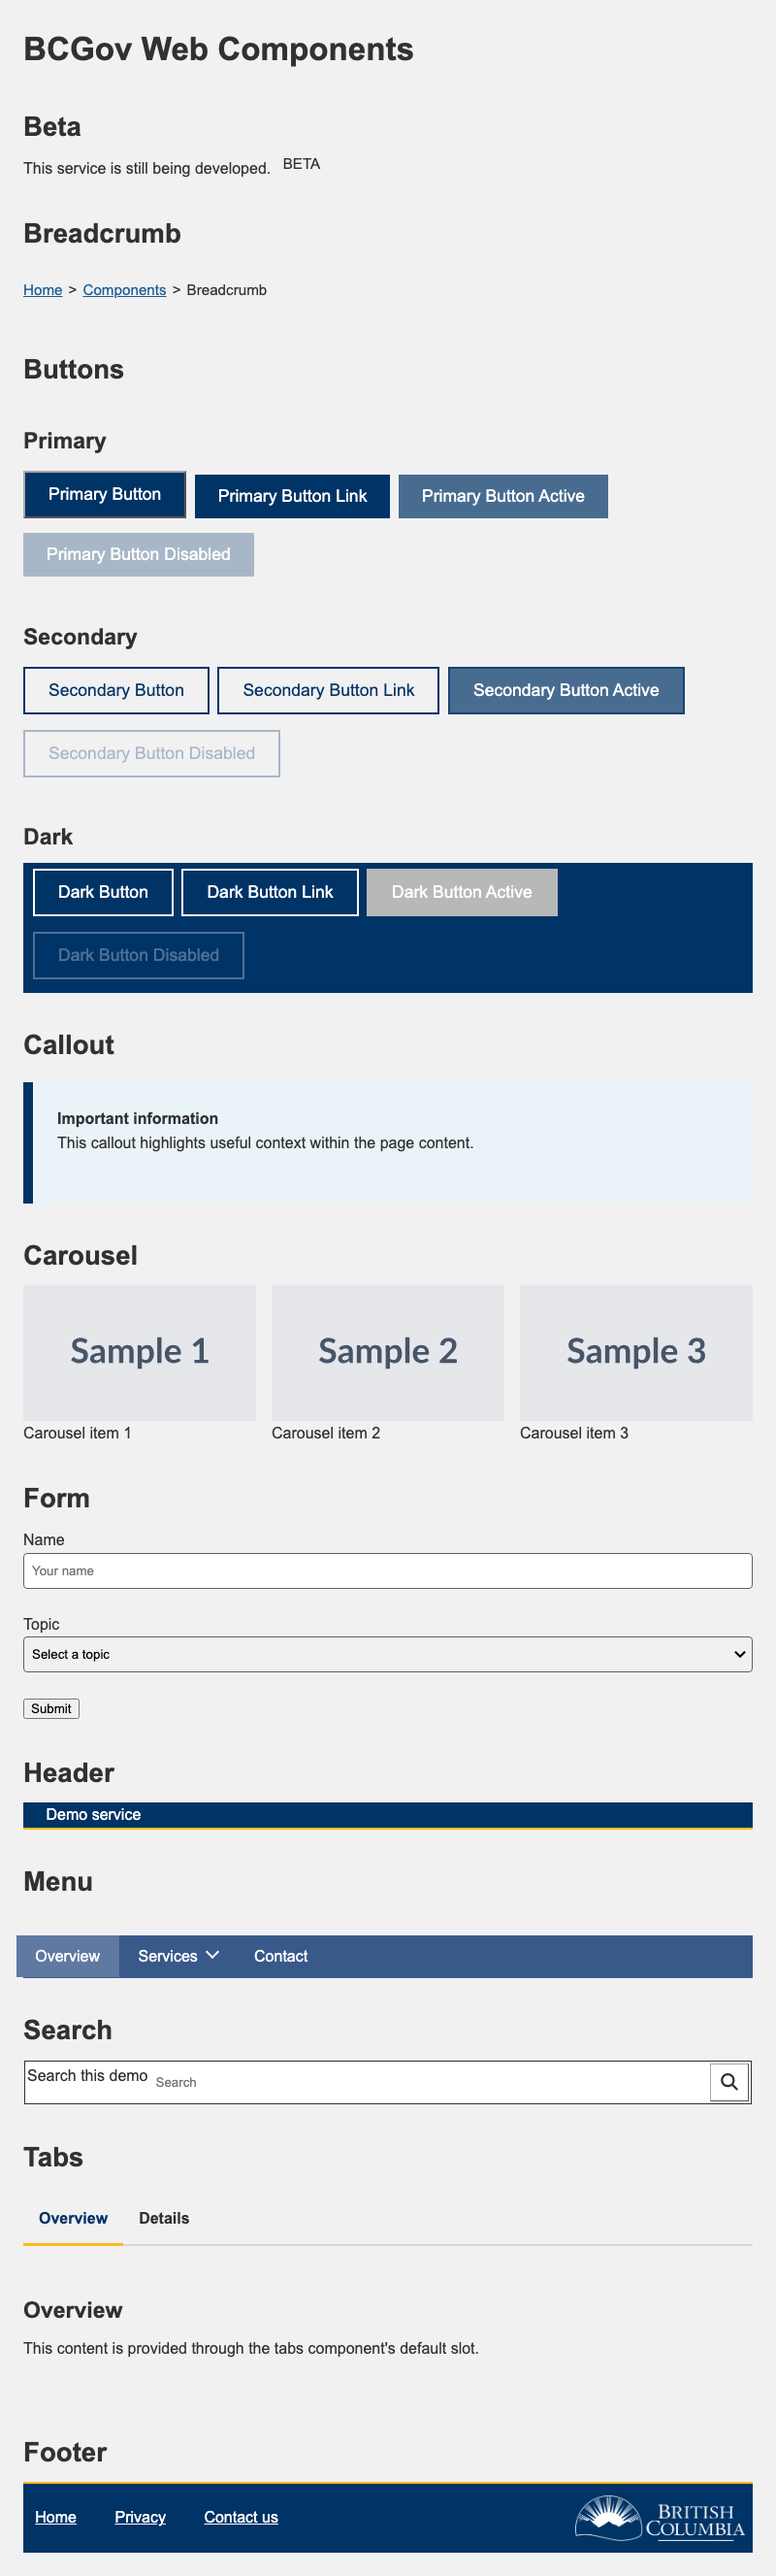
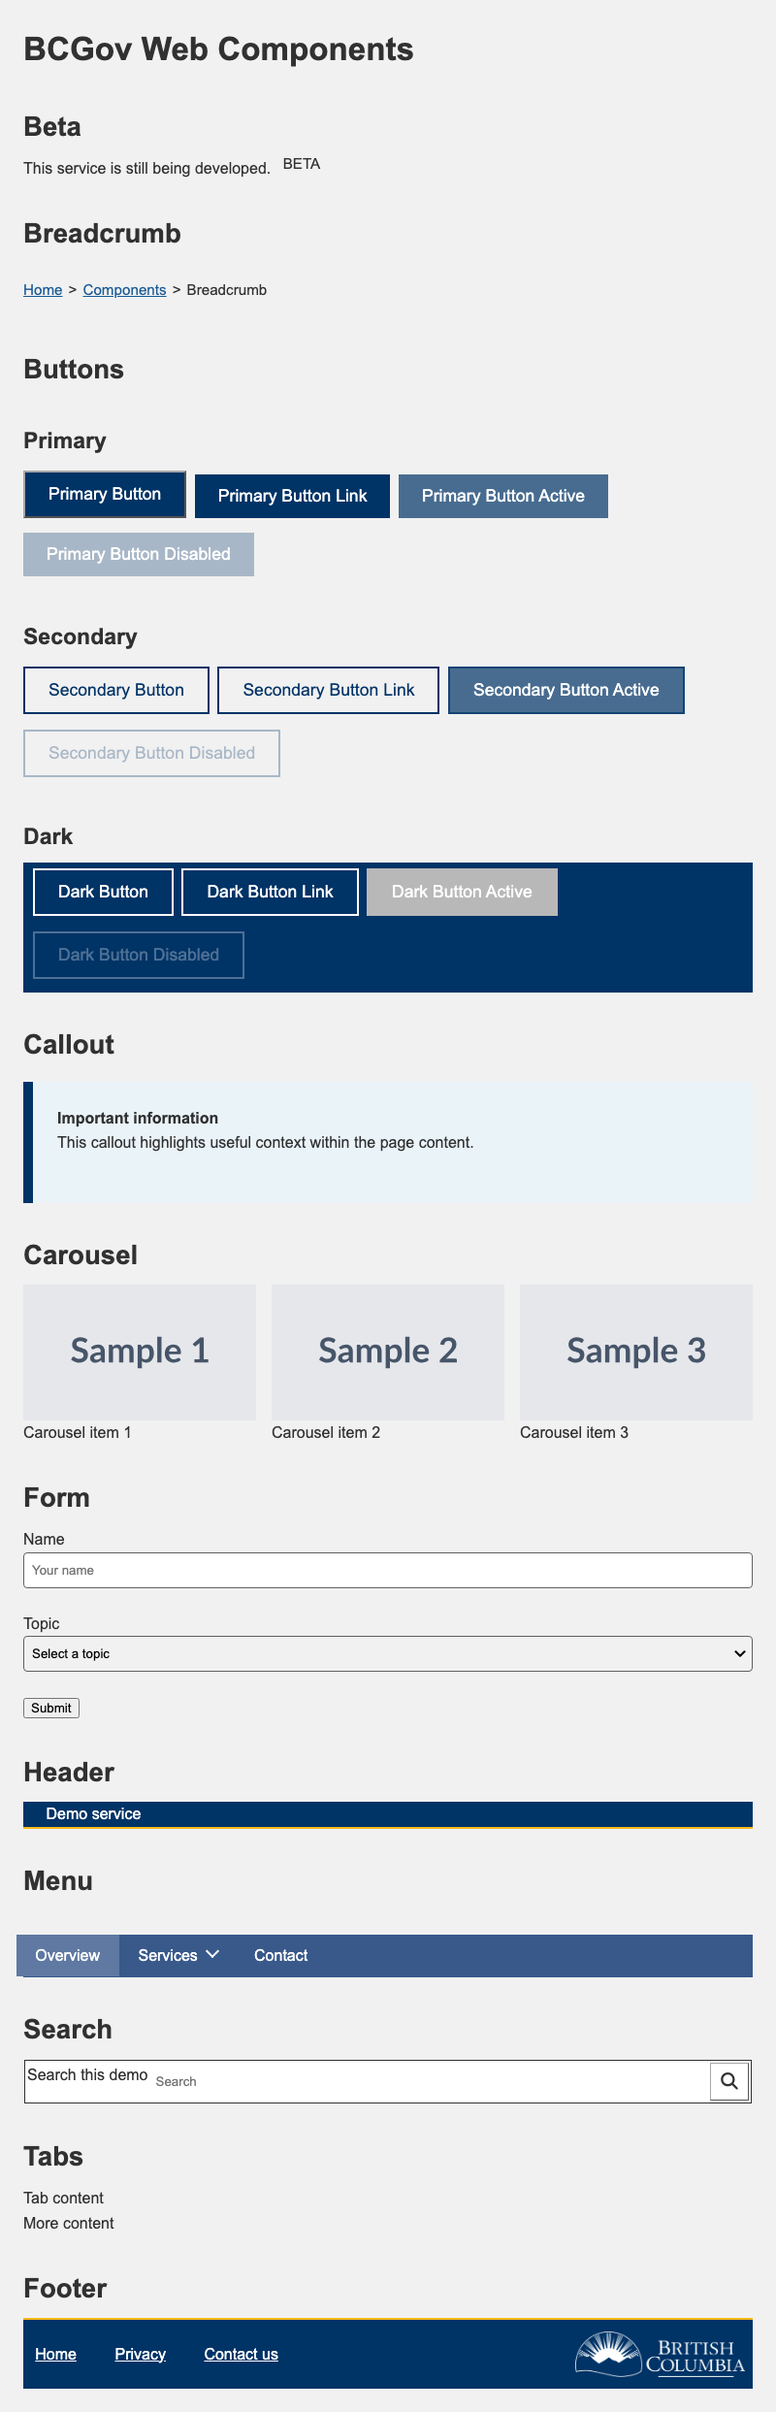
fix(DSWP-1253): simplify tabs demo

diff --git a/src/index.html b/src/index.html
@@ -35,45 +35,6 @@
         --bcgov-wc-color-background-primary: #003366;
         --bcgov-wc-color-background-seconary: #eaf3f8;
       }
-      .demo-tabs {
-        display: block;
-        margin: 1rem 0;
-      }
-      .demo-tabs__list {
-        display: flex;
-        flex-wrap: wrap;
-        border-bottom: 2px solid #d6d6d6;
-      }
-      .demo-tabs__tab {
-        appearance: none;
-        border: 0;
-        border-bottom: 3px solid transparent;
-        margin-bottom: -2px;
-        padding: 0.75rem 1rem;
-        background: transparent;
-        color: #313132;
-        cursor: pointer;
-        font: inherit;
-        font-weight: 600;
-      }
-      .demo-tabs__tab:hover {
-        background: #f2f2f2;
-      }
-      .demo-tabs__tab[aria-selected="true"] {
-        border-bottom-color: #fcba19;
-        color: #003366;
-      }
-      .demo-tabs__tab:focus-visible {
-        outline: 3px solid #1a5a96;
-        outline-offset: 2px;
-        z-index: 1;
-      }
-      .demo-tabs__panel {
-        padding: 1rem 0;
-      }
-      .demo-tabs__panel[hidden] {
-        display: none;
-      }
       .demo-primary-menu.target-hidden {
         display: none;
       }
@@ -192,48 +153,9 @@
     </bcgov-search>
 
     <h2>Tabs</h2>
-    <bcgov-tabs class="demo-tabs" data-demo-tabs>
-      <div class="demo-tabs__list" role="tablist" aria-label="Tabs demo">
-        <button
-          class="demo-tabs__tab"
-          id="demo-tab-overview"
-          type="button"
-          role="tab"
-          aria-controls="demo-panel-overview"
-          aria-selected="true"
-          tabindex="0"
-        >Overview</button>
-        <button
-          class="demo-tabs__tab"
-          id="demo-tab-details"
-          type="button"
-          role="tab"
-          aria-controls="demo-panel-details"
-          aria-selected="false"
-          tabindex="-1"
-        >Details</button>
-      </div>
-      <section
-        class="demo-tabs__panel"
-        id="demo-panel-overview"
-        role="tabpanel"
-        aria-labelledby="demo-tab-overview"
-        tabindex="0"
-      >
-        <h3>Overview</h3>
-        <p>This content is provided through the tabs component's default slot.</p>
-      </section>
-      <section
-        class="demo-tabs__panel"
-        id="demo-panel-details"
-        role="tabpanel"
-        aria-labelledby="demo-tab-details"
-        tabindex="0"
-        hidden
-      >
-        <h3>Details</h3>
-        <p>The component wraps content while the demo provides the tab controls.</p>
-      </section>
+    <bcgov-tabs>
+      <div>Tab content</div>
+      <div>More content</div>
     </bcgov-tabs>
 
     <h2>Footer</h2>
@@ -244,48 +166,5 @@
         <a href="#contact">Contact us</a>
       </bcgov-menu>
     </bcgov-footer>
-    <script>
-      document.querySelectorAll('[data-demo-tabs]').forEach((tabSet) => {
-        const tabs = Array.from(tabSet.querySelectorAll('[role="tab"]'));
-        const activateTab = (selectedTab) => {
-          tabs.forEach((tab) => {
-            const isSelected = tab === selectedTab;
-            tab.setAttribute('aria-selected', String(isSelected));
-            tab.tabIndex = isSelected ? 0 : -1;
-
-            const panelId = tab.getAttribute('aria-controls');
-            const panel = panelId && tabSet.querySelector(`#${panelId}`);
-            if (panel) panel.hidden = !isSelected;
-          });
-        };
-
-        tabs.forEach((tab, position) => {
-          tab.addEventListener('click', () => activateTab(tab));
-          tab.addEventListener('keydown', (event) => {
-            let nextTab;
-            switch (event.key) {
-              case 'ArrowRight':
-                nextTab = tabs[(position + 1) % tabs.length];
-                break;
-              case 'ArrowLeft':
-                nextTab = tabs[(position - 1 + tabs.length) % tabs.length];
-                break;
-              case 'Home':
-                nextTab = tabs[0];
-                break;
-              case 'End':
-                nextTab = tabs[tabs.length - 1];
-                break;
-              default:
-                return;
-            }
-
-            event.preventDefault();
-            nextTab.focus();
-            activateTab(nextTab);
-          });
-        });
-      });
-    </script>
   </body>
 </html>
